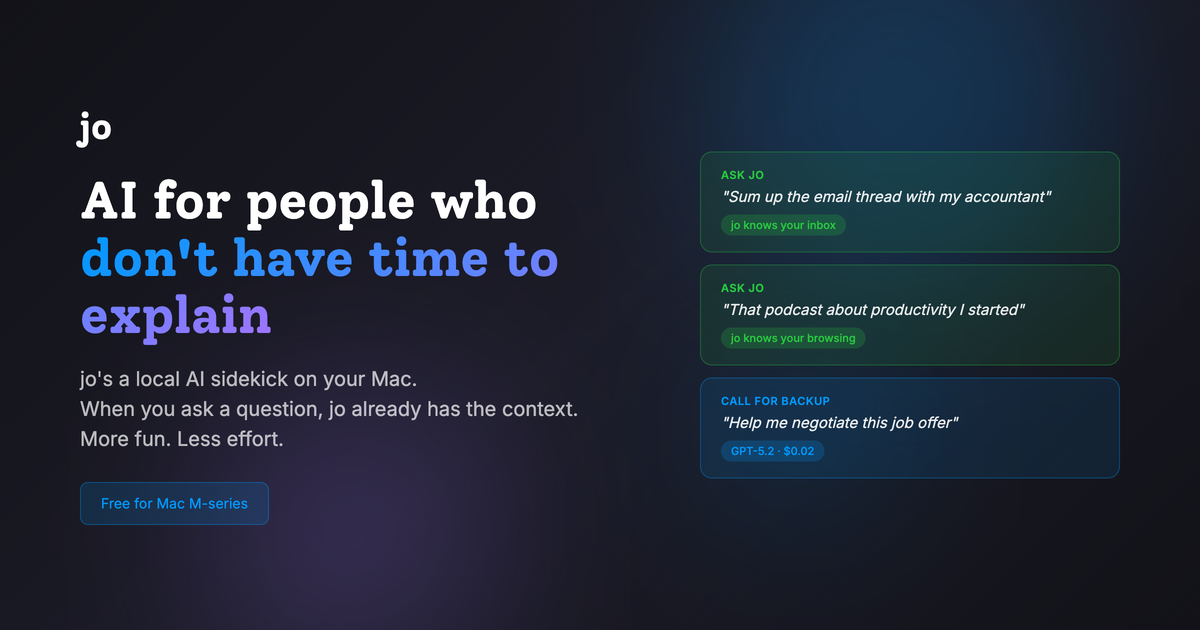
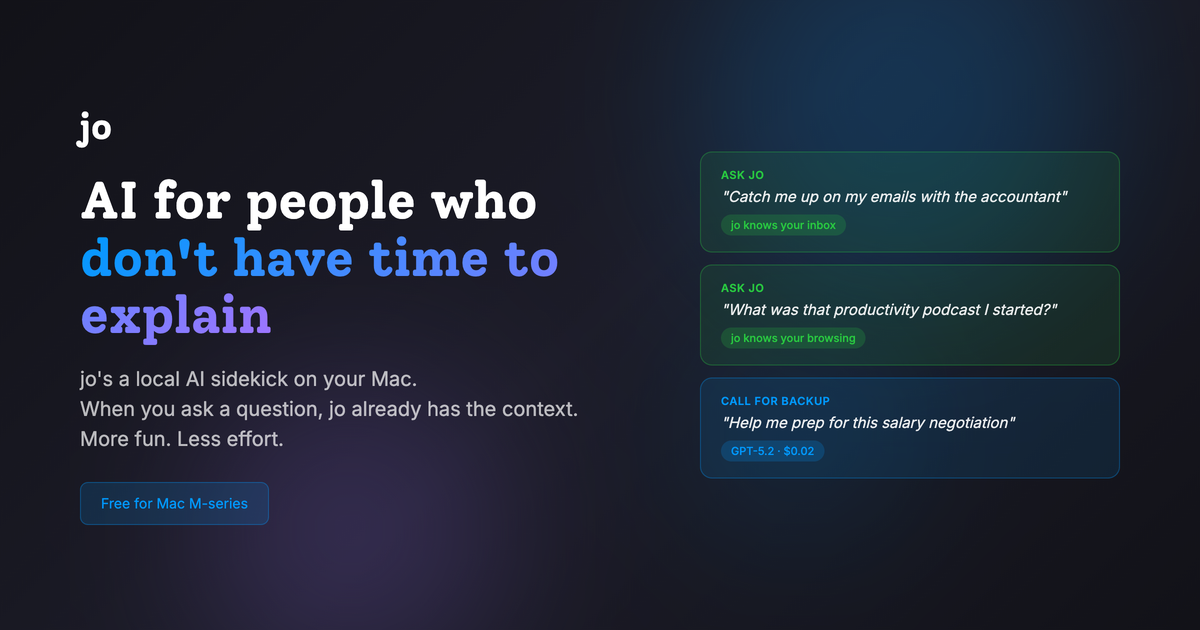
Update OG image with natural example copy
🤖 Generated with [Claude Code](https://claude.com/claude-code)

Changed region(s): [[0.5858, 0.4825, 0.8942, 0.5127], [0.5858, 0.3016, 0.8942, 0.3317], [0.6475, 0.6635, 0.8325, 0.6937]]

diff --git a/og-image.html b/og-image.html
@@ -205,17 +205,17 @@
         <div class="visual">
             <div class="example-card private">
                 <div class="example-label">Ask jo</div>
-                <div class="example-content">"Sum up the email thread with my accountant"</div>
+                <div class="example-content">"Catch me up on my emails with the accountant"</div>
                 <span class="example-badge local">jo knows your inbox</span>
             </div>
             <div class="example-card private">
                 <div class="example-label">Ask jo</div>
-                <div class="example-content">"That podcast about productivity I started"</div>
+                <div class="example-content">"What was that productivity podcast I started?"</div>
                 <span class="example-badge local">jo knows your browsing</span>
             </div>
             <div class="example-card cloud">
                 <div class="example-label">Call for backup</div>
-                <div class="example-content">"Help me negotiate this job offer"</div>
+                <div class="example-content">"Help me prep for this salary negotiation"</div>
                 <span class="example-badge cloud-badge">GPT-5.2 · $0.02</span>
             </div>
         </div>
